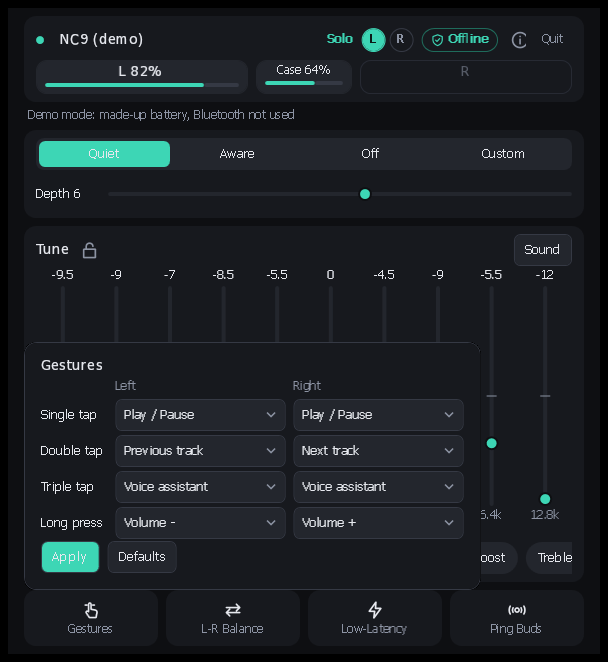
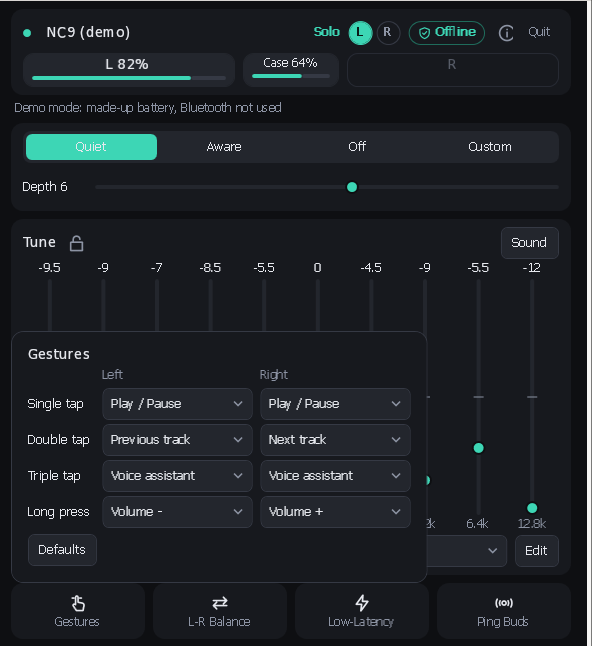
Docs: README, store text and screenshots for 1.4.9

diff --git a/README.md b/README.md
@@ -9,7 +9,7 @@ It talks to the earbuds directly over Bluetooth LE.
 **No internet. No account. No tracking.** The Android app has no internet permission; the Windows app makes no network connections.
 Unofficial companion. See [Compatibility](#compatibility) for supported earbuds.
 
-![BluntyBuds on Windows (demo mode: one earbud in use, case at 64%, built-in NC9 AutoEQ profile)](docs/hero.png)
+![BluntyBuds 1.4.9 on Windows: Home (demo mode, one earbud in use, made-up data)](docs/home.png)
 
 ## Install on Windows
 Download from [Releases](https://github.com/arkivx0/BluntyBuds/releases/latest):
@@ -27,27 +27,26 @@ Download **`BluntyBuds-<version>.apk`** from [Releases](https://github.com/arkiv
 (allow installs from your browser or file manager when asked). Android 10 or later. The app has no INTERNET permission.
 
 ## Features
-- **Home on one screen**, dark and compact: device name, connection dot, L / Case / R battery pills
-  (number plus bar) and an "Offline" badge on top; noise control and Tune in the middle; Gestures,
-  L-R Balance, Low-Latency and Ping Buds as icon buttons at the bottom that open compact flyouts (sheets on Android).
-  Controls the connected model doesn't support are hidden.
-- **Solo Mode**: when only one earbud is in use, BluntyBuds shows L/R chips and fades the missing
-  bud's pill to an outline instead of showing 0%. The notification, the Windows tray tooltip ("L 82%")
-  and low-battery alerts use only the earbud in use; a missing bud is never reported as low or disconnected.
-  The case level is shown as a small figure when the earbuds report it.
+- **Home on one screen**, dark and compact: device name, connection dot, L / Case / R battery pills (number plus bar)
+  and an "Offline" badge on top; noise control and Tune in the middle; Gestures, L-R Balance, Low-Latency and Ping Buds
+  as icon buttons at the bottom (compact flyouts on Windows, sheets on Android). Controls the connected model doesn't support are hidden.
+- **Solo Mode**: when only one earbud is in use, L/R chips show which one, and the missing bud's pill fades to an outline instead of 0%.
+- **Single-earbud battery**: the notification, the Windows tray tooltip (e.g. "L 82%") and low-battery alerts use only the
+  earbud in use; a missing bud is never reported as low or disconnected. The case level appears as a small figure when the earbuds report it.
 - **Noise**: Quiet, Aware, Off and Custom, with a Depth slider (1–10) on models that support it.
-- **Tune**: 10-band EQ (±12 dB). Changes are sent as you go; there is no Apply step.
-  **Lock EQ** (padlock next to Tune) dims the sliders and shows "EQ locked" if you touch them; it is remembered between launches.
-- **Sound Profiles**: chips under Tune apply on tap, with a 3-second Undo. Long-press (Windows: hold or right-click)
-  a chip to save the current Tune into it, rename it or delete it; "+ Save" adds a new one. Import / export as JSON.
-- **AutoEQ**: built-in correction profiles for models measured by the AutoEq project (the connected model's
-  profile is listed first, marked "may differ by hardware revision" unless the chip matches the measured unit),
-  and **Import Correction** for any AutoEQ `ParametricEQ.txt` or `GraphicEQ.txt`, fitted to the 10 bands offline.
-  Profiles never boost: the highest band is at most 0 dB.
-- **Gestures** (touch controls), **L-R Balance**, **Low-Latency** (game mode), **Ping Buds** (loud chirp to find them).
-- **About and Privacy** lists only the permissions actually granted.
-- Windows: tray icon with battery tooltip, tray menu, low-battery toast, auto-reconnect, minimize/close to tray,
-  optional Start with Windows, global hotkey **Ctrl+Alt+N** (cycle noise mode), per-device remembered Tune, dark title bar.
+- **Tune**: 10-band EQ (±12 dB), sent to the earbuds as you change it. The **Lock EQ** padlock next to Tune dims the sliders
+  and blocks changes until you tap it again; it is remembered between launches.
+- **Sound Profiles**: a dropdown under Tune. Pick a profile and it applies at once, with a 3-second **Undo**.
+  **Edit** next to it saves the current Tune as a new profile, or saves into, renames or deletes your own. Import and export as JSON (Sound).
+- **AutoEQ**: built-in correction profiles for models measured by the AutoEq project; the connected model's profile is listed first
+  (marked "may differ by hardware revision" unless the chip matches the measured unit). Profiles never boost: the highest band is at most 0 dB.
+- **Import Correction** (Sound): load any AutoEQ `ParametricEQ.txt` or `GraphicEQ.txt`, fitted to the 10 bands offline.
+- **Gestures**: a small grid with one dropdown per gesture and side (single, double, triple tap, long press), only for the gestures
+  your earbuds report. Changes are sent right away; Defaults restores the factory mapping.
+- **L-R Balance**, **Low-Latency** (lower audio delay) and **Ping Buds** (a loud chirp to find them).
+- **About and Privacy**: "No internet. No account. No tracking.", the permissions actually granted, and "Unofficial companion".
+- Windows: tray icon with battery tooltip and menu, low-battery toast, auto-reconnect, minimize/close to tray, optional Start with Windows,
+  global hotkey **Ctrl+Alt+N** (cycle noise mode), per-device remembered Tune, dark title bar.
 - Android: edge-to-edge, fixed dark theme (no dynamic color), auto-reconnect, Quick Settings "Noise" tile,
   optional status notification (one battery bar for the earbud in use, small case figure, noise buttons), low-battery notification.
 
@@ -62,16 +61,13 @@ Release signing is read from a properties file **outside** the repo:
 Without it the release APK is built unsigned.
 
 ## Screenshots
-![AutoEQ profiles in the preset list (demo mode, built-in NC9 profile)](docs/autoeq-presets.png)
+Windows 1.4.9, rendered in demo mode (made-up data, no Bluetooth, placeholder address).
 
-![Touch-control mapping (demo mode)](docs/touch-controls.png)
+![Tune with the Sound Profiles dropdown open (demo mode)](docs/sound.png)
 
-## Screenshots
-Rendered in demo mode (made-up data, no Bluetooth).
+![Gestures: one dropdown per gesture and side (demo mode)](docs/gestures.png)
 
-![Gestures flyout (demo mode)](docs/gestures.png)
-
-![Sound flyout: Import Correction and Sound Profile files (demo mode)](docs/sound.png)
+![About and Privacy (demo mode)](docs/about.png)
 
 ## Compatibility
 
